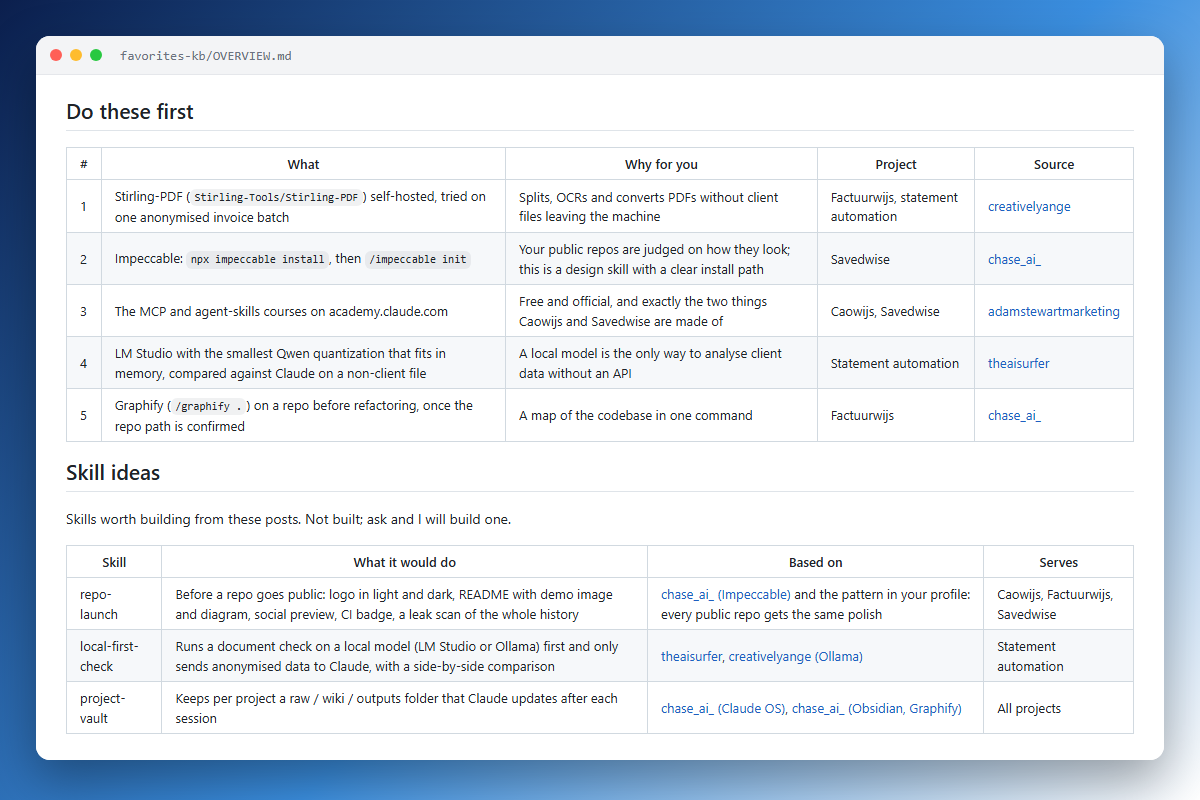
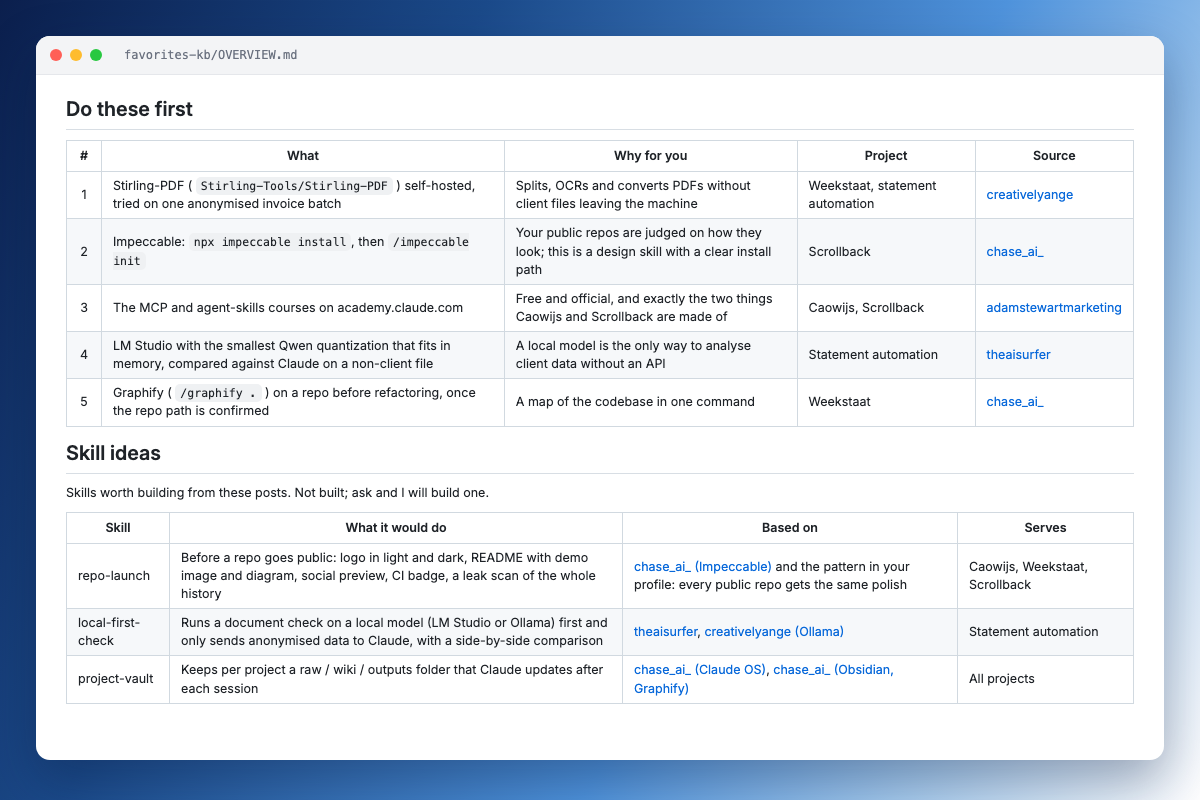
Rename to Scrollback
Plugin, marketplace, skill, README and tests now use the name Scrollback.
Social preview and demo image updated with the new names.

diff --git a/tests/test_repo.py b/tests/test_repo.py
@@ -25,8 +25,8 @@ def repo_texts():
 def test_manifests_agree():
     plugin = json.loads((ROOT / ".claude-plugin" / "plugin.json").read_text(encoding="utf-8"))
     market = json.loads((ROOT / ".claude-plugin" / "marketplace.json").read_text(encoding="utf-8"))
-    assert plugin["name"] == "savedwise"
-    assert [(p["name"], p["source"]) for p in market["plugins"]] == [("savedwise", "./")]
+    assert plugin["name"] == "scrollback"
+    assert [(p["name"], p["source"]) for p in market["plugins"]] == [("scrollback", "./")]
 
 
 def test_no_home_paths_or_emails():
@@ -35,9 +35,9 @@ def test_no_home_paths_or_emails():
 
 
 def test_no_private_terms():
-    path = os.environ.get("SAVEDWISE_PRIVATE_TERMS")
+    path = os.environ.get("SCROLLBACK_PRIVATE_TERMS")
     if not path:
-        pytest.skip("set SAVEDWISE_PRIVATE_TERMS to a file with one private term per line")
+        pytest.skip("set SCROLLBACK_PRIVATE_TERMS to a file with one private term per line")
     terms = [t.strip().lower() for t in Path(path).read_text(encoding="utf-8").splitlines() if t.strip()]
     found = [f"{p.relative_to(ROOT)}: {t}" for p, text in repo_texts() for t in terms if t in text.lower()]
     assert found == []

diff --git a/skills/scrollback/scripts/check.py b/skills/scrollback/scripts/check.py
@@ -1,5 +1,5 @@
 #!/usr/bin/env python3
-"""Check a Savedwise knowledge base: every post has a note and sits in exactly one domain file, and every link to items/ resolves.
+"""Check a Scrollback knowledge base: every post has a note and sits in exactly one domain file, and every link to items/ resolves.
 
 Posts that fetch.py tried but could not download (deleted, private, login refused) need no note; they are listed, not counted as problems.
 Usage: python check.py <kb-folder>   (exit code 1 when there are problems)

diff --git a/tests/test_skill.py b/tests/test_skill.py
@@ -1,7 +1,7 @@
 import re
 from pathlib import Path
 
-SKILL = Path(__file__).resolve().parent.parent / "skills" / "savedwise"
+SKILL = Path(__file__).resolve().parent.parent / "skills" / "scrollback"
 
 
 def frontmatter(text):
@@ -11,7 +11,7 @@ def frontmatter(text):
 
 def test_frontmatter():
     fm = frontmatter((SKILL / "SKILL.md").read_text(encoding="utf-8"))
-    assert fm["name"] == "savedwise"
+    assert fm["name"] == "scrollback"
     assert 100 < len(fm["description"]) <= 1024
 
 

diff --git a/README.md b/README.md
@@ -1,23 +1,23 @@
 <p align="center">
-  <img src="assets/mark.svg" alt="Savedwise" width="120">
+  <img src="assets/mark.svg" alt="Scrollback" width="120">
 </p>
 
-<h1 align="center">Savedwise</h1>
+<h1 align="center">Scrollback</h1>
 
 <p align="center">
   Turn the posts you saved on Instagram and TikTok into a knowledge base you will actually use.
 </p>
 
 <p align="center">
-  <a href="https://github.com/t1mvdploeg/savedwise/actions/workflows/test.yml"><img src="https://github.com/t1mvdploeg/savedwise/actions/workflows/test.yml/badge.svg" alt="tests"></a>
+  <a href="https://github.com/t1mvdploeg/scrollback/actions/workflows/test.yml"><img src="https://github.com/t1mvdploeg/scrollback/actions/workflows/test.yml/badge.svg" alt="tests"></a>
   <img src="https://img.shields.io/badge/Claude%20Code-plugin-D97757" alt="Claude Code plugin">
   <img src="https://img.shields.io/badge/python-%E2%89%A5%203.10-3776AB" alt="Python 3.10 or newer">
   <img src="https://img.shields.io/badge/license-MIT-blue" alt="MIT license">
 </p>
 
-![The overview Savedwise wrote for ten saved posts](assets/demo.png)
+![The overview Scrollback wrote for ten saved posts](assets/demo.png)
 
-You save dozens of reels about tools, workflows and tricks, and never look at them again. Savedwise reads them all, the speech and the text on screen, and tells you which ones are worth acting on, for which of your own projects.
+You save dozens of reels about tools, workflows and tricks, and never look at them again. Scrollback reads them all, the speech and the text on screen, and tells you which ones are worth acting on, for which of your own projects.
 
 It is a Claude Code plugin: one skill that walks Claude through five phases, plus two small scripts for the work that should not burn tokens.
 
@@ -26,11 +26,11 @@ It is a Claude Code plugin: one skill that walks Claude through five phases, plu
 In Claude Code:
 
 ```
-/plugin marketplace add t1mvdploeg/savedwise
-/plugin install savedwise@savedwise
+/plugin marketplace add t1mvdploeg/scrollback
+/plugin install scrollback@scrollback
 ```
 
-Then ask *"process my saved Instagram collection AI"*, or run `/savedwise:savedwise`.
+Then ask *"process my saved Instagram collection AI"*, or run `/scrollback:scrollback`.
 
 You need [ffmpeg](https://ffmpeg.org/download.html) and [uv](https://docs.astral.sh/uv/getting-started/installation/). Collecting links by scrolling needs [Claude in Chrome](https://claude.com/chrome); pasting links works without it.
 

diff --git a/skills/scrollback/references/links.md b/skills/scrollback/references/links.md
@@ -14,7 +14,7 @@ Accept any mix of URLs, one per line or separated by spaces. Keep only links to 
 
 ```js
 (async () => {
-  const seen = new Set(window.__savedwise || []);
+  const seen = new Set(window.__scrollback || []);
   const pick = () => document
     .querySelectorAll('a[href*="/reel/"], a[href*="/p/"], a[href*="/video/"], a[href*="/photo/"]')
     .forEach(a => seen.add(a.href.split('?')[0]));
@@ -26,18 +26,18 @@ Accept any mix of URLs, one per line or separated by spaces. Keep only links to 
     last = seen.size;
   }
   pick();
-  window.__savedwise = [...seen];
-  return window.__savedwise.length;
+  window.__scrollback = [...seen];
+  return window.__scrollback.length;
 })()
 ```
 
-4. Read the links in batches of 50 with `window.__savedwise.slice(0, 50).join('\n')`. The tool may block output that looks like base64, such as Instagram shortcodes. Then return each URL with spaces between the characters and remove them afterwards:
+4. Read the links in batches of 50 with `window.__scrollback.slice(0, 50).join('\n')`. The tool may block output that looks like base64, such as Instagram shortcodes. Then return each URL with spaces between the characters and remove them afterwards:
 
 ```js
-window.__savedwise.slice(0, 50).map(u => u.split('').join(' ')).join(' | ')
+window.__scrollback.slice(0, 50).map(u => u.split('').join(' ')).join(' | ')
 ```
 
 5. Compare the count with what the collection shows. If it is lower, change `1500` to `3000` and run step 3 again.
-6. Append to `links.tsv` with the collection slug, then clear the set (`window.__savedwise = []`) before the next collection.
+6. Append to `links.tsv` with the collection slug, then clear the set (`window.__scrollback = []`) before the next collection.
 
 Report the number of new links per collection.

diff --git a/skills/scrollback/SKILL.md b/skills/scrollback/SKILL.md
@@ -1,9 +1,9 @@
 ---
-name: savedwise
-description: Turns saved Instagram and TikTok posts (reels, videos, carousels, photo posts) into a personal knowledge base - one note per post, topic domains, an overview of what is worth doing, which of the user's own projects each tip fits, and skills worth building. Use when the user wants to process, summarise or learn from their saved, bookmarked or favorited social media posts, add newly saved posts, or update an existing Savedwise knowledge base.
+name: scrollback
+description: Turns saved Instagram and TikTok posts (reels, videos, carousels, photo posts) into a personal knowledge base - one note per post, topic domains, an overview of what is worth doing, which of the user's own projects each tip fits, and skills worth building. Use when the user wants to process, summarise or learn from their saved, bookmarked or favorited social media posts, add newly saved posts, or update an existing Scrollback knowledge base.
 ---
 
-# Savedwise
+# Scrollback
 
 Turn a pile of saved posts into a knowledge base the user will actually use. Every post is downloaded, transcribed and read frame by frame, summarised into a note, and grouped into domains with a verdict per post and advice tied to the user's own projects. Everything stays on the user's machine.
 
